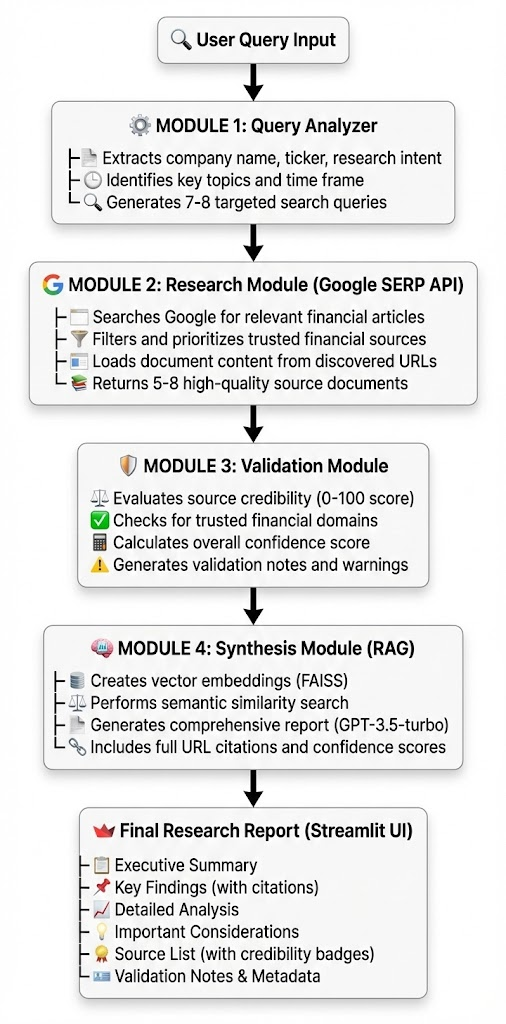
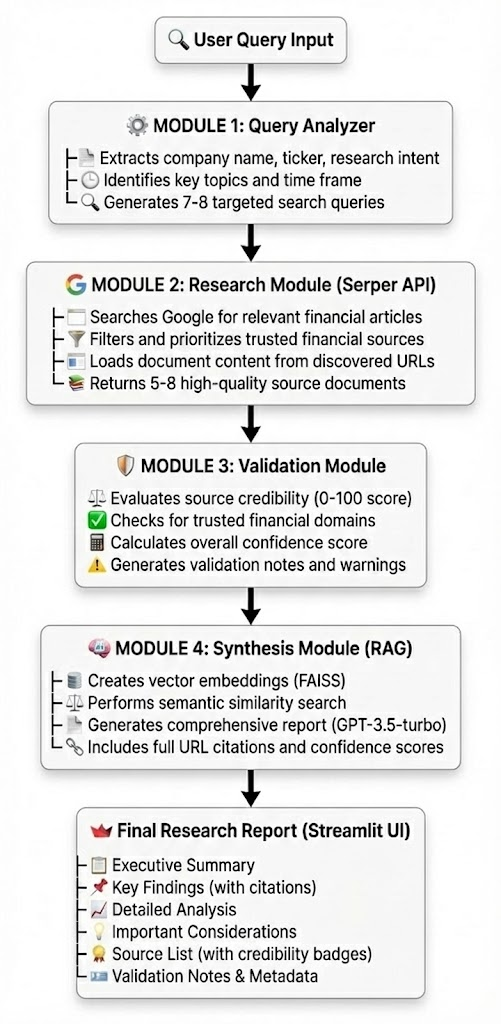
workflow updated

diff --git a/README.md b/README.md
@@ -11,7 +11,7 @@
 
 ## 🎯 Overview
 
-The **Modular Equity Research System** is a prototype application that automates financial equity research using a coordinated multi-module architecture. It combines the power of OpenAI's GPT-3.5-turbo, Google SERPER API, and RAG (Retrieval-Augmented Generation) to deliver accurate, well-sourced financial analysis reports with confidence scoring.
+The **Modular Equity Research System** is a prototype application that automates financial equity research using a coordinated multi-module architecture. It combines the power of OpenAI's GPT-3.5-turbo, SERPER API for google search, and RAG (Retrieval-Augmented Generation) to deliver accurate, well-sourced financial analysis reports with confidence scoring.
 
 ### Key Features
 
